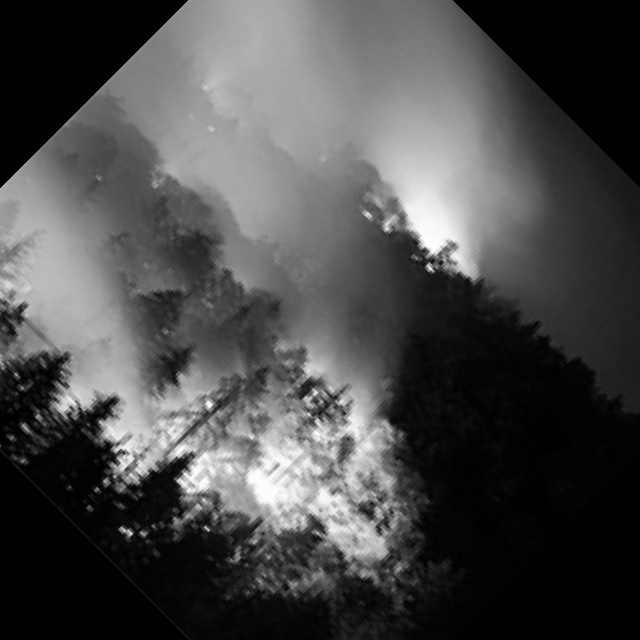
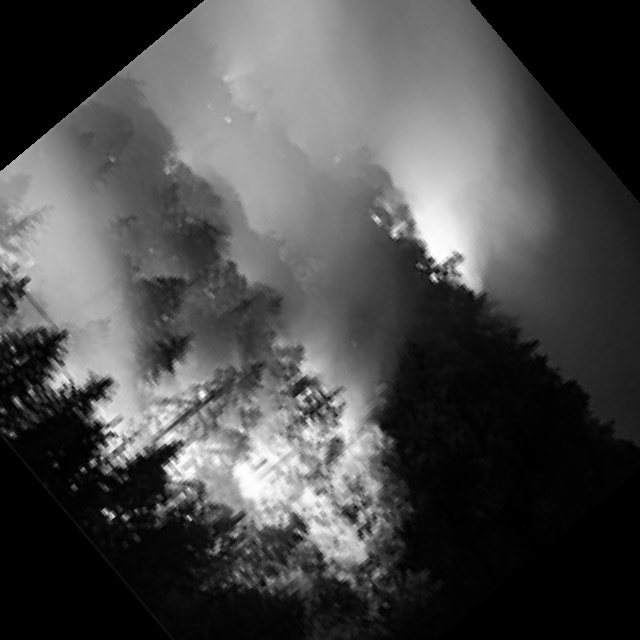
Avance: funciones de aumento de datos con random

diff --git a/src/main.py b/src/main.py
@@ -1,6 +1,7 @@
 import cv2
 import os
 import funciones as fun
+import random
 
 # --- Configuración ---
 input_folder = 'imagenes'
@@ -43,19 +44,22 @@ for i in range(1, 11):
         cv2.imwrite(os.path.join(output_base, carpetas['flip'], filename), img_flip)
         
         # --- C. Rotación ---
-        # Ejemplo: Rotar 45 grados
-        img_rot = fun.rotacion(img_gris, angulo_grados=45)
+        # Ejemplo: Rotar theta grados
+        img_rot = fun.rotacion(img_gris, angulo_grados=random.randint(-360,360))
         cv2.imwrite(os.path.join(output_base, carpetas['rot'], filename), img_rot)
         
         # --- D. Traslación ---
-        # Ejemplo: Mover 50px a la derecha y 30px abajo
-        img_tras = fun.traslacion(img_gris, tx=50, ty=30)
+        # Ejemplo: Mover m px a la derecha y n px abajo
+        img_tras = fun.traslacion(img_gris, tx=random.randint(-200, 200), ty=random.randint(-200, 200))
         cv2.imwrite(os.path.join(output_base, carpetas['tras'], filename), img_tras)
         
         # --- E. Escalamiento ---
-        # Ejemplo: Zoom 1.5x en ambos ejes
-        img_esc = fun.escalamiento(img_gris, sx=1.5, sy=1.5)
+        
+        # Ejemplo: agrandar o reducir la imagen
+        factor_scale=random.uniform(0.5, 1.5)
+        img_esc = fun.escalamiento(img_gris, s=factor_scale)
         cv2.imwrite(os.path.join(output_base, carpetas['esc'], filename), img_esc)
+
 
     else:
         print(f"Error: No se encontró {input_path}")

diff --git a/src/funciones.py b/src/funciones.py
@@ -148,18 +148,18 @@ def traslacion(img, tx, ty):
     return new_img
 
 # --- 2d. Escalamiento ---
-def escalamiento(img, sx, sy):
-    """ Escala la imagen por factores sx, sy usando interpolación bilineal. """
+def escalamiento(img, s):
+    """ Escala la imagen por el factor s usando interpolación bilineal. """
     h, w = img.shape
-    new_h = int(h * sy)
-    new_w = int(w * sx)
+    new_h = int(h * s)
+    new_w = int(w * s)
     
     # 1. Crear grid de coordenadas de la imagen DESTINO
     y_grid, x_grid = np.meshgrid(np.arange(new_h), np.arange(new_w), indexing='ij')
     
     # 2. Mapeo Inverso: x_src = x_dst / sx
-    x_src = x_grid / sx
-    y_src = y_grid / sy
-    
+    x_src = x_grid / s
+    y_src = y_grid / s
+
     # 3. Interpolación
     return aplicar_interpolacion_bilineal(img, x_src, y_src)
